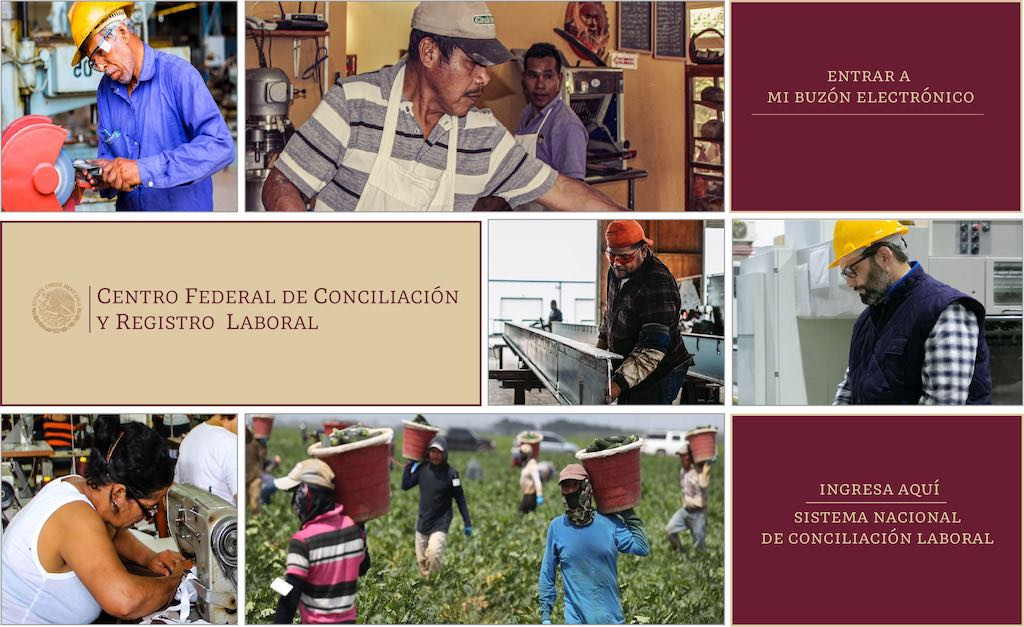
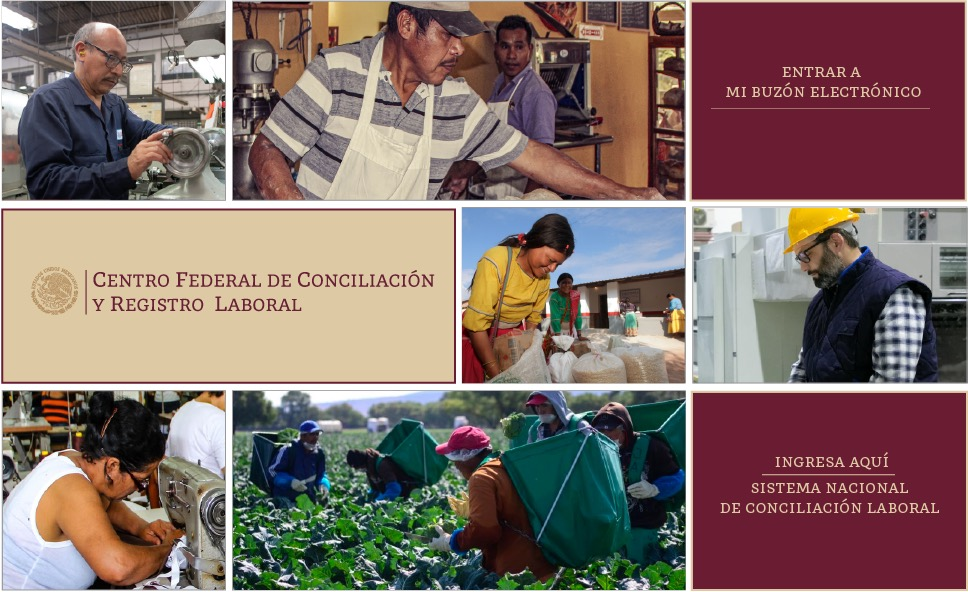
Actualizado: Imágenes de entrada y presentación de botones de soy trabajador patron sindicato

diff --git a/resources/views/asesoria/default.blade.php b/resources/views/asesoria/default.blade.php
@@ -1,31 +1,10 @@
 @extends('layouts.default')
 
 @section('content')
-
-    <div class="align-middle" >
-
-
-
-        <div class="btn-group center offset-3" role="group" aria-label="...">
-            <p>
-                <br>
-                <br>
-                <br>
-                <br>
-                <br>
-                <br>
-                <br>
-                <br>
-                <br>
-                <br>
-                <a href="/asesoria/10" class="btn btn-primary btn-lg m-10" type="button">SOY TRABAJADOR</a>
-                <a href="/asesoria/20" class="btn btn-primary btn-lg m-10" type="button">SOY PATRÓN</a>
-                <a href="/solicitudes/create-public/?solicitud=4" class="btn btn-primary btn-lg m-10" type="button">SOY SINDICATO</a>
-
-            </p>
-        </div>
-
-    </div>
-
-
+    <img width="1024" class="mx-auto d-block" src="/assets/img/asesoria/trabajador-patron-sindicato.jpg" usemap="#NavMap">
+    <map name="NavMap">
+        <area alt="Soy trabajador" title="Soy trabajador" href="/asesoria/10" coords="600,262,900,170" shape="rect" style="border: thin solid yellow;">
+        <area alt="Soy patrón" title="Soy patrón" href="/asesoria/20" coords="600,432,900,350" shape="rect">
+        <area alt="Soy sindicato" title="Soy sindicato" href="/solicitudes/create-public/?solicitud=4" coords="600,610,900,528" shape="rect">
+    </map>
 @endsection
